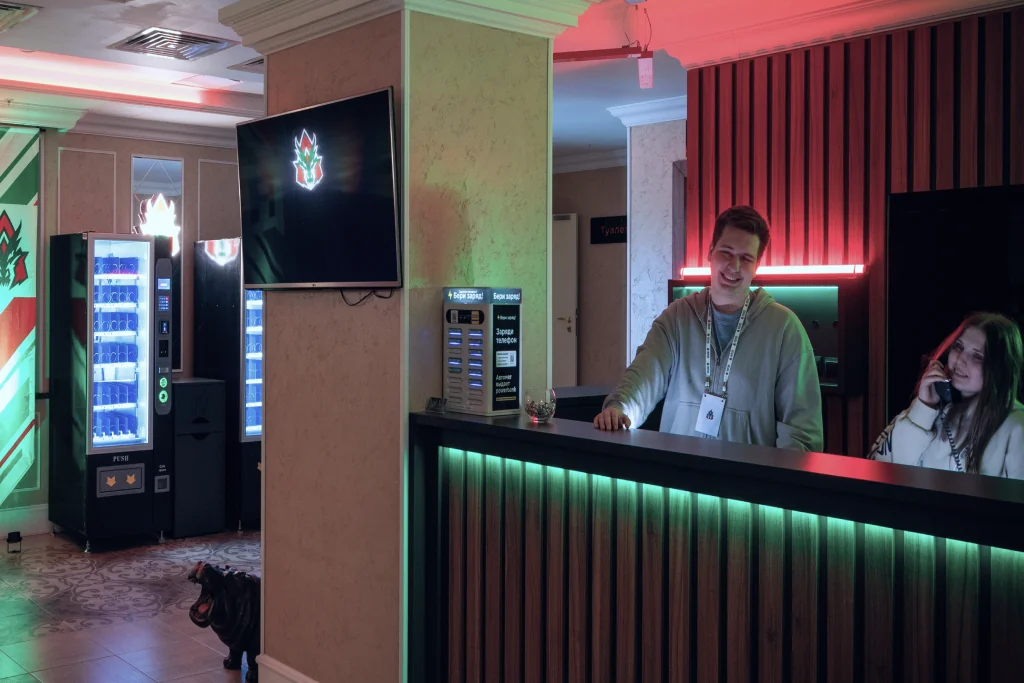
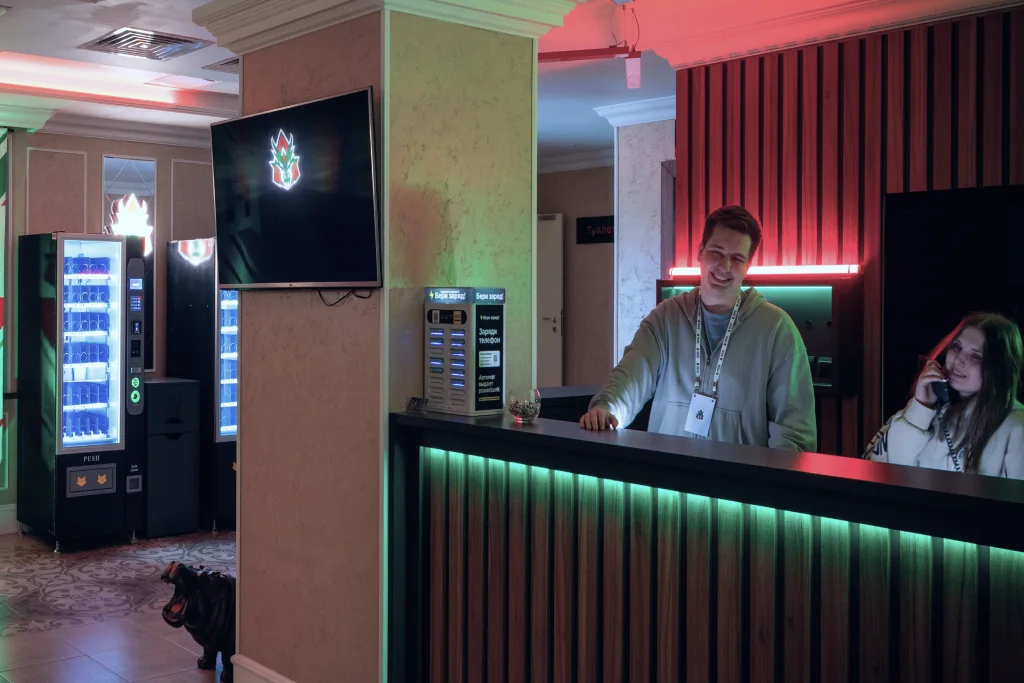
Локация: фото по новому макету, параллакс без мерцания и рывков
Фото — одна картинка со скруглением 20 без обрезающей обёртки, новые кадры и позиции из Figma.
Сдвиг фото ставится в целые пиксели экрана (дробный сдвиг давал мерцание неоновых линий).
Lenis получает время ровными шагами кадра: шаг скролла больше не скачет вместе с дрожью тикера.

diff --git a/src/scripts/sections/finale.ts b/src/scripts/sections/finale.ts
@@ -7,11 +7,12 @@
  * Сама анимация — на картинке, скролл — на обёртке, поэтому они не мешают друг другу.
  *
  * Фото в «Локации» — та же глубина, что в «Что мы придумали?» (sections/intro.ts): фото движется со своей
- * скоростью по data-depth. Только сдвиг по вертикали: масштаб на каждом кадре заставлял перерисовывать фото — они мерцали.
+ * скоростью по data-depth. Только сдвиг по вертикали и ровно по пикселям экрана: масштаб на каждом кадре
+ * и дробный сдвиг заставляли фото мерцать.
  */
 import { gsap } from 'gsap';
 import { ScrollTrigger } from 'gsap/ScrollTrigger';
-import { fitFlow, stageHeight } from '../core/stage';
+import { fitFlow, stageHeight, stageScale } from '../core/stage';
 import { refreshSoon } from '../core/refresh';
 
 /** та же скорость глубины, что в intro.ts */
@@ -66,22 +67,53 @@ function initGlows(section: HTMLElement) {
   });
 }
 
+/**
+ * Фото едет от +distance до −distance, пока проходит экран (от входа снизу до ухода вверх).
+ * Сдвиг округляется до целых пикселей экрана: при дробном сдвиге браузер на каждом кадре сглаживает фото
+ * по-разному — оно то резче, то мягче, и тонкие неоновые линии мерцают. По X фото тоже ставится в целый пиксель.
+ * Границы считаются от раскладки без сдвига: сдвиг самого фото не влияет на то, где оно начинает двигаться.
+ */
 function initPhotos(section: HTMLElement) {
   section.querySelectorAll<HTMLElement>('[data-depth]').forEach((el) => {
     const z = Number(el.dataset.depth) || 1;
-    // сколько экранов скролла проходит от входа фото в кадр до середины экрана
-    const reach = () => (window.innerHeight + el.getBoundingClientRect().height) / (2 * window.innerHeight);
-    const distance = () => reach() * SPEED * z * (stageHeight() / 900);
-    gsap.fromTo(
-      el,
-      { y: () => distance() },
-      {
-        y: () => -distance(),
-        ease: 'none',
-        force3D: true,
-        scrollTrigger: { trigger: el, start: 'top bottom', end: 'bottom top', scrub: true, invalidateOnRefresh: true },
+    const host = el.offsetParent as HTMLElement;
+    let top = 0; // верх фото без сдвига, px страницы
+    let distance = 0; // px кадра
+    let x = 0; // px кадра: поправка до целого пикселя по горизонтали
+    let s = 1;
+    let dpr = 1;
+
+    const measure = () => {
+      s = stageScale();
+      dpr = window.devicePixelRatio || 1;
+      const box = host.getBoundingClientRect();
+      top = box.top + window.scrollY + el.offsetTop * s;
+      const height = el.offsetHeight * s;
+      // сколько экранов скролла проходит от входа фото в кадр до середины экрана
+      const reach = (window.innerHeight + height) / (2 * window.innerHeight);
+      distance = reach * SPEED * z * (stageHeight() / 900);
+      const left = box.left + el.offsetLeft * s;
+      x = (Math.round(left * dpr) / dpr - left) / s;
+    };
+
+    const render = (self: ScrollTrigger) => {
+      const y = distance * (1 - 2 * self.progress);
+      // экранный верх фото — в целый пиксель экрана
+      const rest = top - self.scroll();
+      const snapped = (Math.round((rest + y * s) * dpr) / dpr - rest) / s;
+      el.style.transform = `translate3d(${x.toFixed(4)}px, ${snapped.toFixed(4)}px, 0)`;
+    };
+
+    // мерить — в момент расчёта начала: закрепления выше по странице к этому времени уже на месте
+    ScrollTrigger.create({
+      start: () => {
+        measure();
+        return top - window.innerHeight;
       },
-    );
+      end: () => top + el.offsetHeight * s,
+      onRefresh: render,
+      onUpdate: render,
+    });
   });
 }
 

diff --git a/src/scripts/core/smooth-scroll.ts b/src/scripts/core/smooth-scroll.ts
@@ -13,12 +13,38 @@ let instance: Lenis | null = null;
 export function initSmoothScroll() {
   const lenis = new Lenis({ lerp: 0.1, anchors: true, allowNestedScroll: true });
   lenis.on('scroll', ScrollTrigger.update);
-  gsap.ticker.add((time) => lenis.raf(time * 1000));
+  const clock = frameClock();
+  gsap.ticker.add((time) => lenis.raf(clock(time * 1000)));
   gsap.ticker.lagSmoothing(0);
   // для отладки в dev: window.lenis.scrollTo(y, { immediate: true })
   if (import.meta.env.DEV) (window as unknown as { lenis: Lenis }).lenis = lenis;
   instance = lenis;
   return lenis;
+}
+
+/**
+ * Время для Lenis ровными шагами кадра экрана. Тикер отдаёт момент, когда кадр начал считаться, а не когда он
+ * покажется, — с дрожью в 1–2 мс. Шаг скролла пропорционален времени и скакал вместе с ней (26, 30, 27 px за кадр),
+ * хотя экран показывает кадры строго через равные промежутки — страница и особенно параллакс подёргивались.
+ * Шаг кадра — медиана последних промежутков (подстраивается под 60 и 120 Гц), пропущенный кадр — целое число шагов.
+ */
+function frameClock() {
+  const recent: number[] = [];
+  let last = 0;
+  let clock = 0;
+  return (now: number) => {
+    if (!last) {
+      last = clock = now;
+      return clock;
+    }
+    const dt = now - last;
+    last = now;
+    recent.push(dt);
+    if (recent.length > 15) recent.shift();
+    const period = [...recent].sort((a, b) => a - b)[recent.length >> 1];
+    clock += period > 0 ? Math.max(1, Math.round(dt / period)) * period : dt;
+    return clock;
+  };
 }
 
 /** Плавно прокрутить страницу к y (px): через Lenis, если он запущен, иначе — силами браузера */
